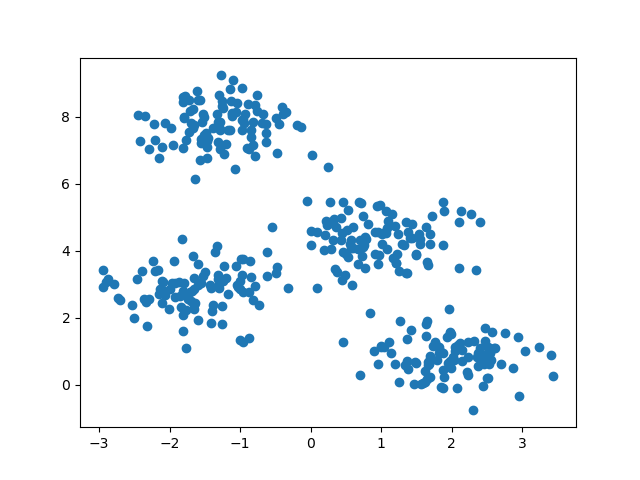
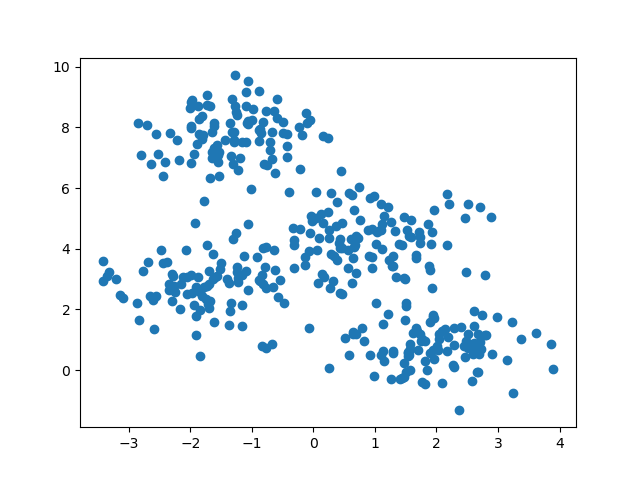
More variations

diff --git a/run_kmc.py b/run_kmc.py
@@ -4,18 +4,23 @@ import matplotlib.pyplot as plt
 
 from sklearn.cluster import KMeans
 
-X,Y = make_blobs(n_samples=400, centers=4, cluster_std=0.60, random_state=0)
+X,Y = make_blobs(n_samples=400, centers=4, cluster_std=0.80, random_state=0)
 
 #print(X)
 
 plt.scatter(X[:,0], X[:,1])
 plt.savefig('scatterplot.png')
 
-kmeans = KMeans(n_clusters=7)
-kmeans.fit(X)
-kmeans_results = kmeans.predict(X)
+def run_kmeans(n):
+	kmeans = KMeans(n_clusters=n)
+	kmeans.fit(X)
+	kmeans_results = kmeans.predict(X)
 
-print(kmeans_results)
+	print(kmeans_results)
 
-plt.scatter(X[:,0], X[:,1], c=kmeans_results)
-plt.savefig('scatterplot_color.png')
+	plt.scatter(X[:,0], X[:,1], c=kmeans_results)
+	plt.savefig('scatterplot_color_' + str(n) + 'clusters.png')
+
+run_kmeans(4)
+
+
